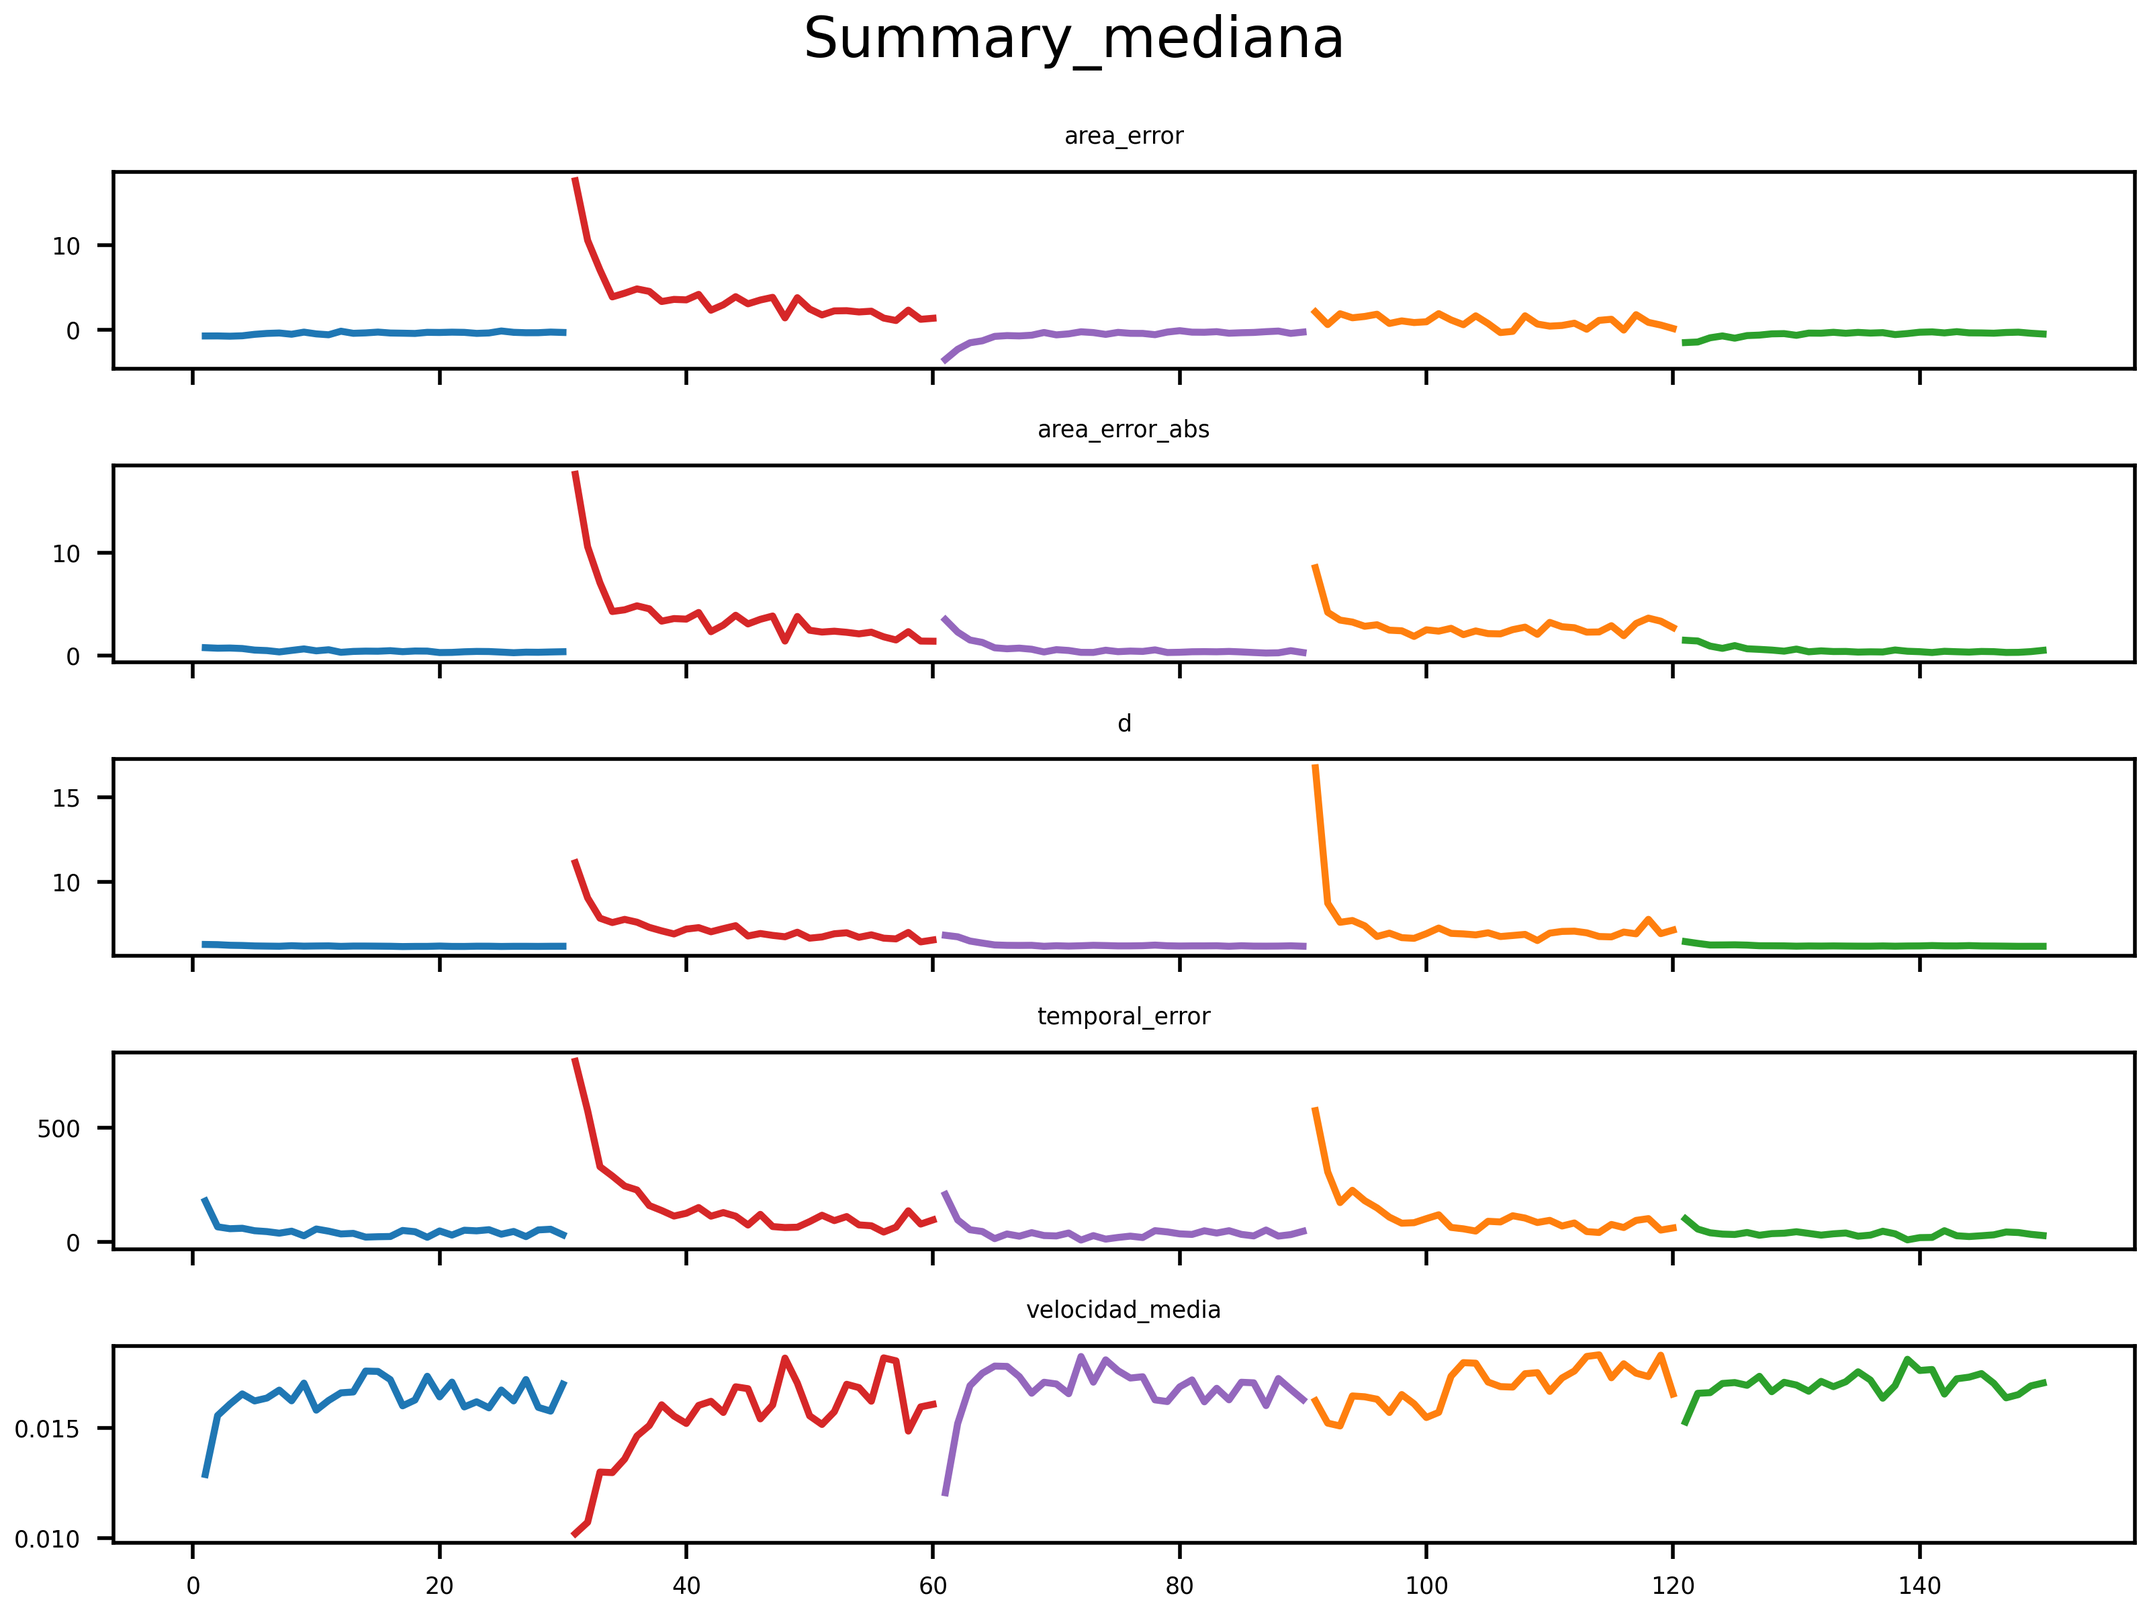
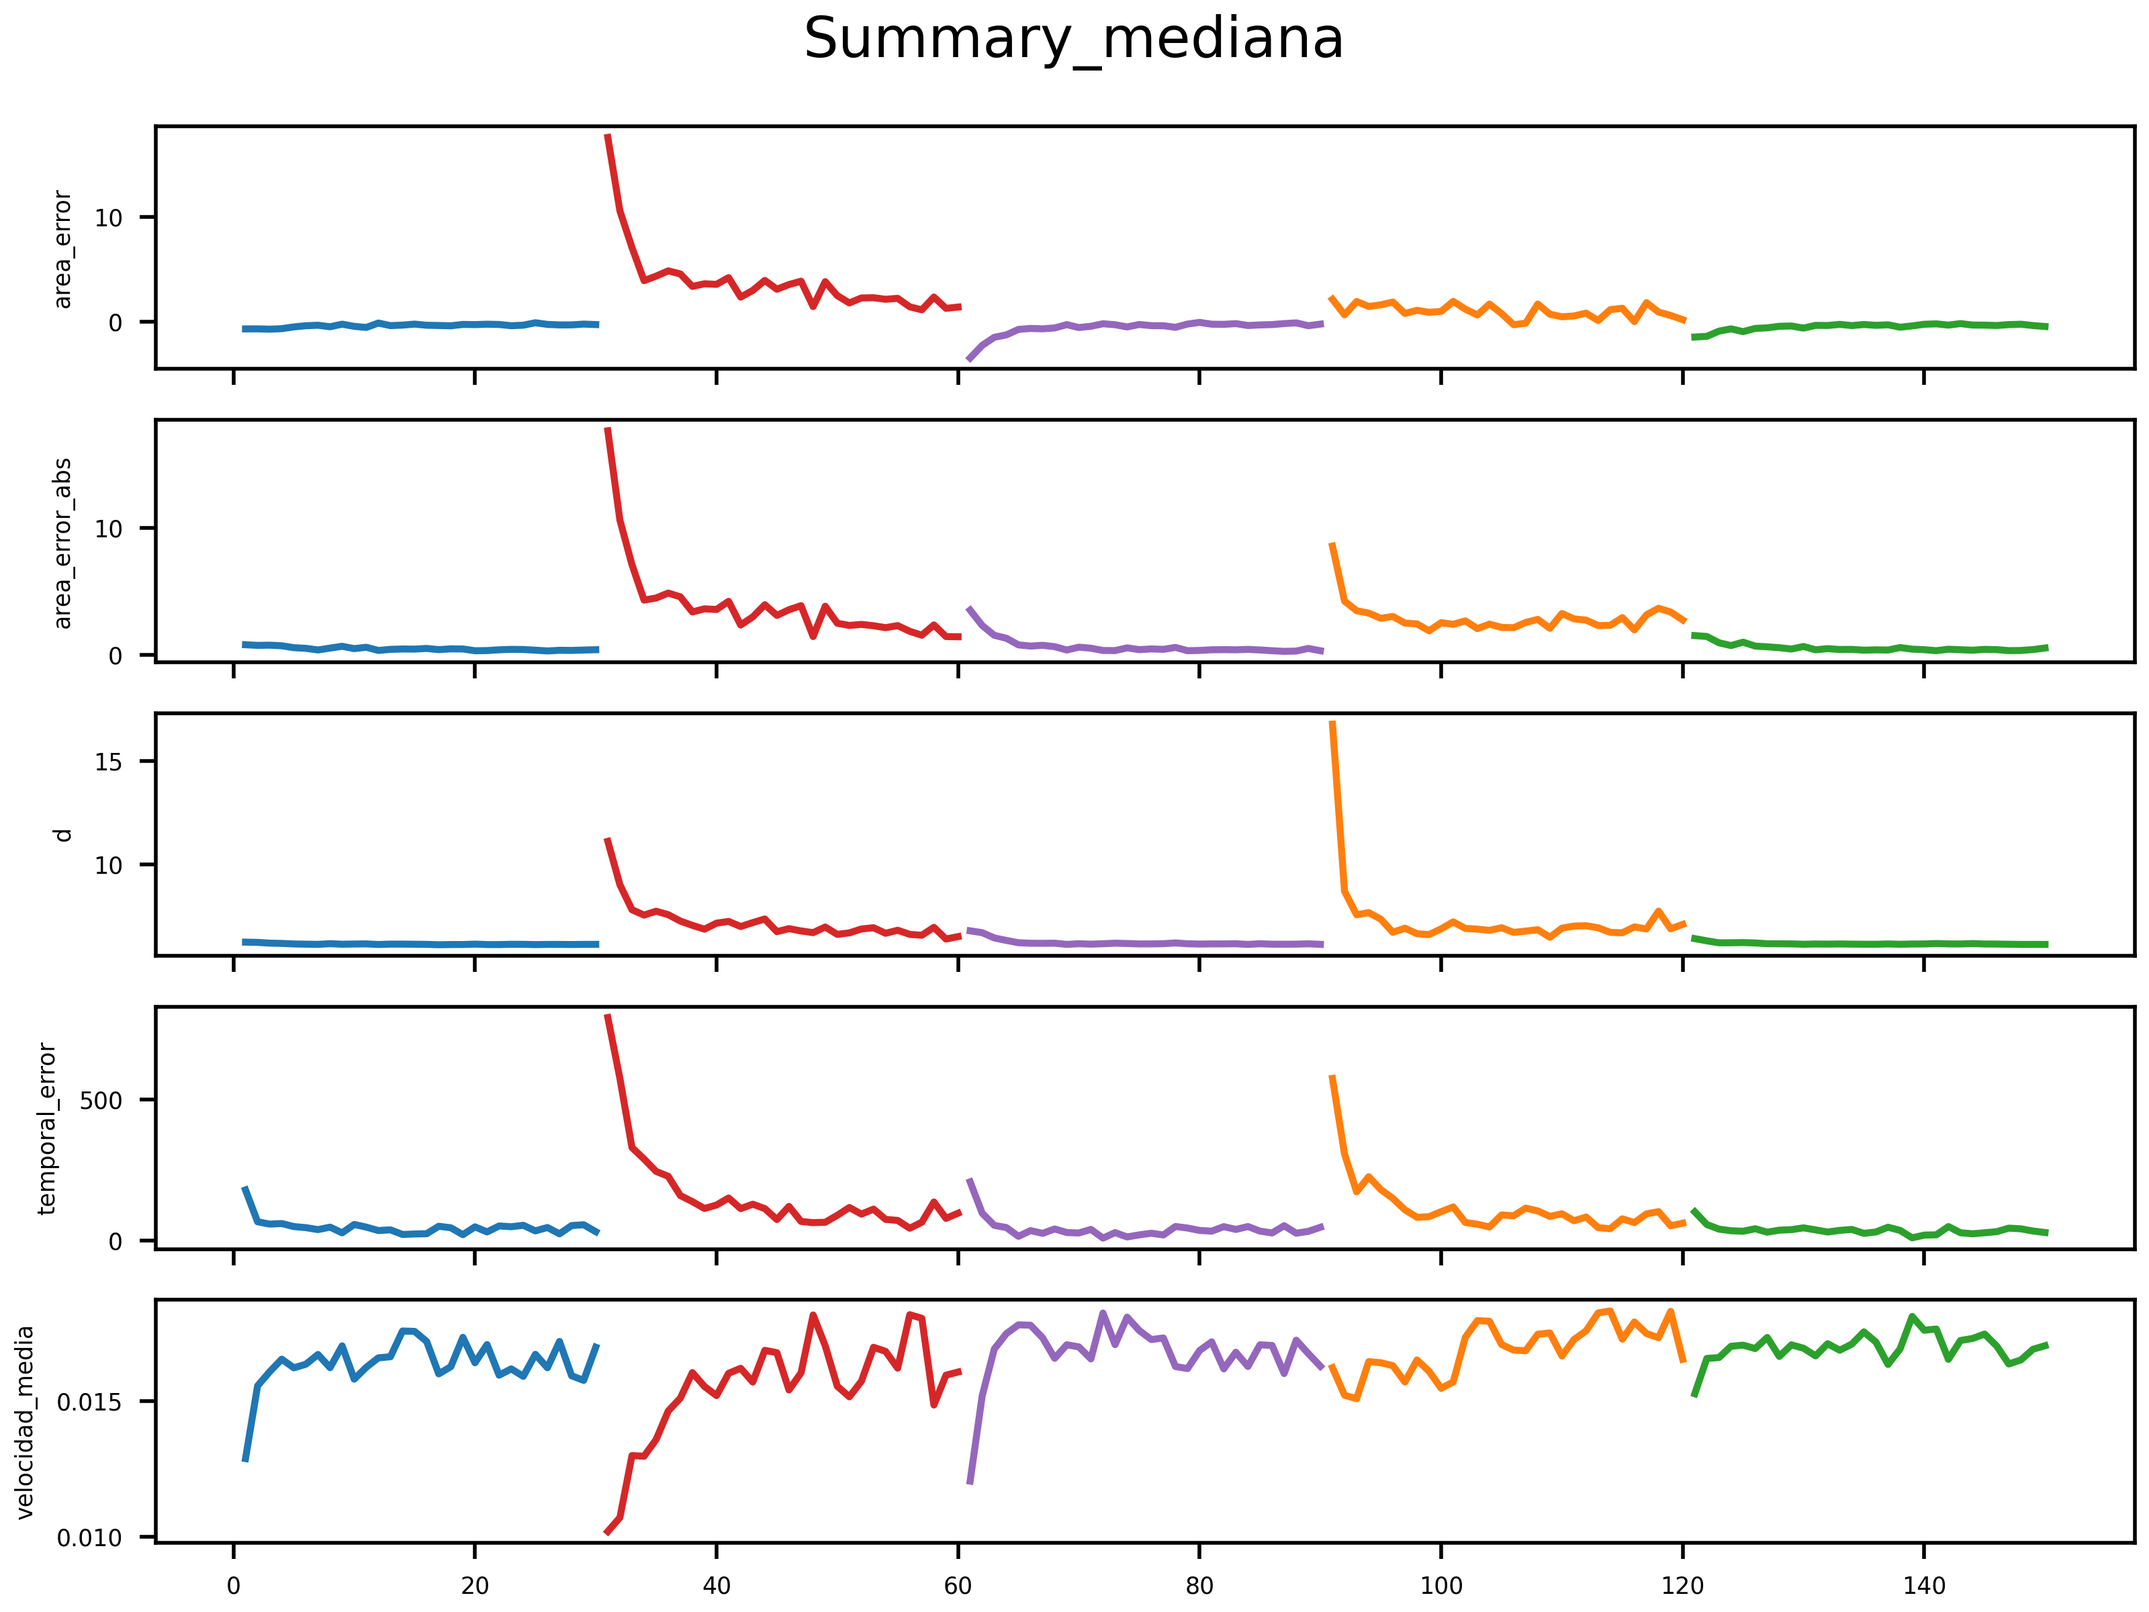
Nuevas imagenes

diff --git a/app/source/plot_analisis_datos.py b/app/source/plot_analisis_datos.py
@@ -9,14 +9,16 @@ file= os.path.join(path, "Merge_analisis.csv")
 df = pd.read_csv(file, index_col=False)
 df = df[df.trialSuccess == 1]
 
+block_vars = ['blockName']
 metrics = [
     'area_error',
     'area_error_abs',
     'd',
-    'reproduced_period',
     'temporal_error',
+    'velocidad_media'
 ]
-block_vars = ['blockName']
+df['velocidad_media'] = df['d'] / df['reproduced_period']
+
 
 # Agregar offset segun el tipo de trial (vmr, vmr aftereffects, etc) para generar el eje x
 blockNamesOffset = {
@@ -29,6 +31,7 @@ blockNamesOffset = {
 for blockName in df.blockName.unique():
     offset = blockNamesOffset[blockName]
     df.loc[df.blockName == blockName, "x_axis"] = df.loc[df.blockName == blockName, "blockTrialSuccessN"] + offset 
+
 df.x_axis = df.x_axis.astype(int)
 
 # Todos los sujetos en un grafico
@@ -165,7 +168,7 @@ def axs_plot_sujetos(fig, axs, df, metrics, title="", color_choice = None, alpha
             subplot_i = 0
             for metric in metrics:
                 axs[subplot_i].plot(block_group.x_axis, block_group[metric],color=color, alpha=alpha)
-                axs[subplot_i].set_title(metric, fontsize=5)
+                axs[subplot_i].set_ylabel(metric, fontsize=5)
                 subplot_i += 1
                 
         color_i+=1
@@ -180,7 +183,7 @@ def axs_plot_promedio(fig, axs, df, metrics, title="promedio"):
         for metric in metrics:
             avg_series = mean_df[metric]
             axs[subplot_i].plot(mean_df.index, avg_series)
-            axs[subplot_i].set_title(metric, fontsize=5)
+            axs[subplot_i].set_ylabel(metric, fontsize=5)
             subplot_i += 1     
         
     plt.savefig(os.path.join(path, f"{title}.png") , dpi = 500)
@@ -200,7 +203,7 @@ def axs_plot_bandas_std(fig, axs, df, metrics, title ="bandas_std"):
                         y2=avg_series + std_series,
                         alpha=0.25
                         )
-            axs[subplot_i].set_title(metric, fontsize=5)
+            axs[subplot_i].set_ylabel(metric, fontsize=5)
             subplot_i += 1  
 
     plt.savefig(os.path.join(path, f"{title}.png") , dpi = 500)
@@ -210,7 +213,6 @@ def axs_plot_bandas_sem(fig, axs, df, metrics, title ="bandas_sem"):
     grouped_block = df.groupby(block_vars)
     for (blockName), block_group in grouped_block:
         mean_df = block_group.groupby("x_axis").mean()
-        print(mean_df.head(5).index)
         sem_df = block_group.groupby("x_axis").sem()
         subplot_i = 0
         for metric in metrics:
@@ -221,26 +223,36 @@ def axs_plot_bandas_sem(fig, axs, df, metrics, title ="bandas_sem"):
                         y2=avg_series + sem_series,
                         alpha=0.25
                         )
-            axs[subplot_i].set_title(metric, fontsize=5)
+            axs[subplot_i].set_ylabel(metric, fontsize=5)
             subplot_i += 1 
     plt.savefig(os.path.join(path, f"{title}.png") , dpi = 500)
 
-def axs_plot_mediana(fig, axs, df, metrics, title="mediana"):
+def axs_plot_mediana(fig, axs, df, metrics, title="mediana", color=None):
     fig.suptitle(title)
+    params = {}
+    if color:
+        params["color"] = color
+
     grouped_block = df.groupby(block_vars)
     for (blockName), block_group in grouped_block:
         median_df = block_group.groupby("x_axis").median()
         subplot_i = 0
         for metric in metrics:
             avg_series = median_df[metric]
-            axs[subplot_i].plot(median_df.index, avg_series)
-            axs[subplot_i].set_title(metric, fontsize=5)
+            axs[subplot_i].plot(median_df.index, avg_series, **params)
+            axs[subplot_i].set_ylabel(metric, fontsize=5)
             # axs[subplot_i].semilogy(base=10)
             subplot_i += 1     
     plt.savefig(os.path.join(path, f"{title}.png") , dpi = 500)
 
-def axs_plot_bandas_mad(fig, axs, df, metrics, title ="bandas_mad"):
+
+def axs_plot_bandas_mad(fig, axs, df, metrics, title ="bandas_mad", color=None):
     fig.suptitle(title)
+    params = {}
+    if color:
+        params["color"] = color
+
+
     grouped_block = df.groupby(block_vars)
     for (blockName), block_group in grouped_block:
         median_df = block_group.groupby("x_axis").median()
@@ -252,14 +264,75 @@ def axs_plot_bandas_mad(fig, axs, df, metrics, title ="bandas_mad"):
             axs[subplot_i].fill_between(x=median_df.index,
                         y1=avg_series - mad_series,
                         y2=avg_series + mad_series,
-                        alpha=0.25
+                        alpha=0.25,
+                        **params
                         )
-            axs[subplot_i].set_title(metric, fontsize=5)
+            axs[subplot_i].set_ylabel(metric, fontsize=5)
             subplot_i += 1  
     plt.savefig(os.path.join(path, f"{title}.png") , dpi = 500)
 
-figure_offset = 0
+
+def axs_boxplot_diferencias(fig, axs, df, metrics, title="boxplot_diferencias"):
+    fig.suptitle(title)
+    subplot_row = 0
+    for metric in metrics:
+        data = []
+        labels = []
+        grouped_blockName = df.groupby("blockName")
+        for blockName, group_blockName in grouped_blockName:
+            first_ten_trials = group_blockName[group_blockName['blockTrialSuccessN'] <= 10]
+            last_ten_trials = group_blockName[group_blockName['blockTrialSuccessN'] > 20]
+            mean_first_ten_trials = first_ten_trials.groupby("sujeto")[metric].mean() 
+            mean_last_ten_trials = last_ten_trials.groupby("sujeto")[metric].mean() 
+            # data += [(mean_last_ten_trials - mean_first_ten_trials) / mean_first_ten_trials]
+            data += [mean_first_ten_trials]
+            if metric == "temporal_error" and blockName == "Force-AfterEffects":
+                print("mean_first_ten_trials", mean_first_ten_trials)
+                print("mean_last_ten_trials", mean_last_ten_trials)
+                print(blockName, data[-1])
+            labels += [blockName]
+        axs[subplot_row].boxplot(data)
+        axs[subplot_row].set_ylabel(metric, fontsize=5)
+        subplot_row += 1
+    axs[0].set_xticklabels(labels*len(metrics), rotation=45, fontsize=5) #for sharex='all
+    plt.savefig(os.path.join(path, f"{title}-mean_first_ten_trials.png") , dpi = 500)
+    # TODO: anotate outliers https://stackoverflow.com/questions/40470175/boxplot-outliers-labels-python
+
+ 
+def plot_comparacion_vmr_fuerza(df, metrics, title="comparacion_vmr_fuerza"):
+    df = df.copy()
+    blockNamesOffset = {
+        "Adaptacion": 0,
+        "VMR": 30,
+        "VMR-AfterEffects": 60,
+        "Force": 30,
+        "Force-AfterEffects": 60,
+    }
+    for blockName in df.blockName.unique():
+        offset = blockNamesOffset[blockName]
+        df.loc[df.blockName == blockName, "x_axis"] = df.loc[df.blockName == blockName, "blockTrialSuccessN"] + offset 
+    df.x_axis = df.x_axis.astype(int)
+    fig, axs = create_axs(row_size=len(metrics), sharex='all')
+    axs_plot_bandas_mad(fig, axs, df, metrics, title=title)
+    axs_plot_mediana(fig, axs, df, metrics, title=title)
+    # TODO de adaptacion mostrar solo los ultimos 10 trials y agregar colores fijos
+    # TODO vel media en lugar de periodo reproducido
+    # por cada perturbacion poner baseline (ult 10 trials), perturbacion y after effects todo con el mismo color
+    # num de trial dentor del bloque
+
+def plot_impacto_contrabalanceo(df, metrics, title="impacto_contrabalanceo"):
+    fig, axs = create_axs(row_size=len(metrics), sharex='all')
+    sujetos_vmr_primero = df[(df['trialSuccessN']==df['x_axis']) & (df['vmr']==1)].sujeto.unique()
+    df_sujetos_vmr_primero = df[df.sujeto.isin(sujetos_vmr_primero)]
+    sujetos_force_primero = df[(df['trialSuccessN']!=df['x_axis']) & (df['vmr']==1)].sujeto.unique()
+    df_sujetos_force_primero = df[df.sujeto.isin(sujetos_force_primero)]
+    axs_plot_bandas_mad(fig, axs, df_sujetos_vmr_primero, metrics, title=title, color="blue")
+    axs_plot_mediana(fig, axs, df_sujetos_vmr_primero, metrics, title=title, color="blue")
+    axs_plot_bandas_mad(fig, axs, df_sujetos_force_primero, metrics, title=title, color="red")
+    axs_plot_mediana(fig, axs, df_sujetos_force_primero, metrics, title=title, color="red")
 '''
+figure_offset = 0
+
 title = "sujetos"
 plot_sujetos(df, metrics, figure_offset, title=title, showLabel=True)
 print(f"Listo {title}")
@@ -301,7 +374,7 @@ plot_sujetos(df, metrics, figure_offset, title=title, color_choice = 'grey', alp
 plot_bandas_sem(df, metrics, figure_offset, title=title)
 plot_promedio(df, metrics, figure_offset, title=title)
 print(f"Listo {title}")
-'''
+
 figure_offset += len(metrics)
 title = "mediana_sujetos_y_bandas_mad"
 plot_sujetos(df, metrics, figure_offset, title=title, color_choice = 'grey', alpha=0.25)
@@ -310,50 +383,77 @@ plot_mediana(df, metrics, figure_offset, title=title)
 print(f"Listo {title}")
 
 
-metrics = [
-    'area_error',
-    'area_error_abs',
-    'd',
-    'temporal_error',
-    'velocidad_media'
-]
-df['velocidad_media'] = df['d'] / df['reproduced_period']
+'''
 
-def create_axs(metrics):
-    fig, axs = plt.subplots(len(metrics), 1, sharex=True, constrained_layout=True)
-
+def create_axs(row_size=1, col_size=1, sharex=False, sharey=False):
+    fig, axs = plt.subplots(row_size, col_size, sharex=sharex, sharey=sharey, constrained_layout=True)
     for ax in axs.flat:
             plt.setp(ax.get_xticklabels(), fontsize=5)
             plt.setp(ax.get_yticklabels(), fontsize=5)
     return fig, axs
-
+'''
 title = "Summary_sujetos_promedio"
-fig, axs = create_axs(metrics)
+fig, axs = create_axs(row_size=len(metrics), sharex='all')
 axs_plot_sujetos(fig, axs, df, metrics, title=title, color_choice = 'grey', alpha=0.25)
 axs_plot_promedio(fig, axs, df, metrics, title=title)
 print(f"Listo {title}")
 
 
 title = "Summary_promedio_bandas_sem"
-fig, axs = create_axs(metrics)
+fig, axs = create_axs(row_size=len(metrics), sharex='all')
 axs_plot_bandas_sem(fig, axs, df, metrics, title=title)
 axs_plot_promedio(fig, axs, df, metrics, title=title)
 print(f"Listo {title}")
 
 title = "Summary_mediana_sujetos"
-fig, axs = create_axs(metrics)
+fig, axs = create_axs(row_size=len(metrics), sharex='all')
 axs_plot_sujetos(fig, axs, df, metrics, title=title, color_choice = 'grey', alpha=0.25)
 axs_plot_mediana(fig, axs, df, metrics, title=title)
 print(f"Listo {title}")
 
 title = "Summary_mediana_banda_mad"
-fig, axs = create_axs(metrics)
+fig, axs = create_axs(row_size=len(metrics), sharex='all')
 axs_plot_bandas_mad(fig, axs, df, metrics, title=title)
 axs_plot_mediana(fig, axs, df, metrics, title=title)
 print(f"Listo {title}")
 
 title = "Summary_mediana"
-fig, axs = create_axs(metrics)
+fig, axs = create_axs(row_size=len(metrics), sharex='all')
 axs_plot_mediana(fig, axs, df, metrics, title=title)
 print(f"Listo {title}")
 # plt.show()
+'''
+title = "Boxplot_diferencias"
+fig, axs = create_axs(row_size=len(metrics), sharey='row', sharex='all')
+axs_boxplot_diferencias(fig, axs, df, metrics, title=title)
+print(f"Listo {title}")
+'''
+title = "comparacion_vmr_fuerza"
+metrics_comparacion = [
+        'd',
+        'reproduced_period',
+        'temporal_error',
+    ]
+plot_comparacion_vmr_fuerza(df, metrics=metrics_comparacion, title=title)
+print(f"Listo {title}")
+
+
+title = "impacto_contrabalanceo"
+plot_impacto_contrabalanceo(df, metrics, title=title)
+print(f"Listo {title}")
+
+title = "Summary_mediana_mad_errores"
+metrics_errores = [
+    'area_error',
+    'area_error_abs',
+    'temporal_error',   
+]
+fig, axs = create_axs(row_size=len(metrics_errores), sharex='all')
+axs_plot_bandas_mad(fig, axs, df, metrics=metrics_errores, title=title)
+axs_plot_mediana(fig, axs, df, metrics=metrics_errores, title=title)
+print(f"Listo {title}")
+
+
+# df_sujeto_vmr =  df[df.sujeto == "vft_sebastian"]
+# df_sujeto_force = df[df.sujeto == "vft_hilariob"]
+'''

diff --git a/app/TODO.md b/app/TODO.md
@@ -339,3 +339,38 @@ velocidad
 - arreglar lo del index que mean arranca en cero 
 - separar las trazas en el promedio o cambiar el color (label)
 - pensar en el codigo para reordenar cuando tengamos los sujetos contrabalanceados
+
+
+---- reunion 12/7 ----
+Images para armar:
+- medida para descartar sujetos: 
+* dif entre promedio de ultimos vs primeros diez y ver los outliers (dif final - inicial / inicial)
+* para cada sujeto y bloque ver la distribuion de la diferencia y algunos van a quedar aislados hacia el lado final mayor q inicial o dif muy chica y ahi aplicar criterio de outlier convencional (1.5) boxplot pyploy tukey's fences con 1.5 
+armar boxplot ocn las metricas
+
+- ver impacto del contrabalanceo:
+graficar las medianas y bandas de los dos "sets" de sujetos (vmr-force y force-vmr) superpuestas
+
+- cambiar graficos summary, el titulo en el eje y en vez 
+
+- comparar las medianas entre vmr y fuerza (con sus bandas) tres paneles:
+* dist
+* err t
+* vel media 
+cada uno con las dos perturbaiones superpuestas y los respectivos aftereffects 
+
+- error de area, erro abs y err temp (summary)
+
+- para vmr y fuerza (el mejor sujeto que tenga, gran adaptacion y gran after effect) (el de vmr que haya hecho vmr primero) graficar una figura de 4 paneles con todos sus trials  (trayectorias) si queda muy enmarañado probar 1 cada 2, vmr y aftereffects del mismo sujeto
+
+- de un sujeto para vmr y uno para fuerza mostrar el error signado, abs y temporal de lo mismo que mostre en la figura anterior (dos imagenes)
+
+
+------ reunion 14/7
+criterio de outlier: no alcanza con tomar solo el cociente o el valor inicial/final 
+se toma sobre el error absoluto (temporal y de area) de los bloques de perturbacion
+el error final queda alto => outlier de final 
+
+si el error no baja pero el final es bajo => no se tira 
+
+al final tenemos que anonimizar todos los datos
